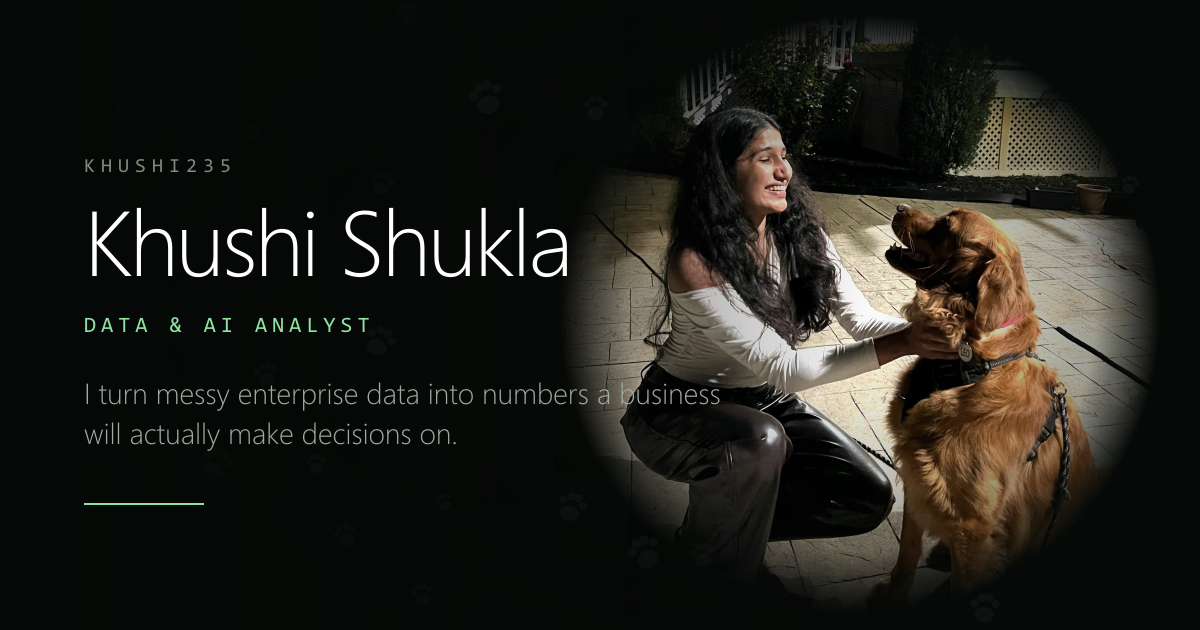
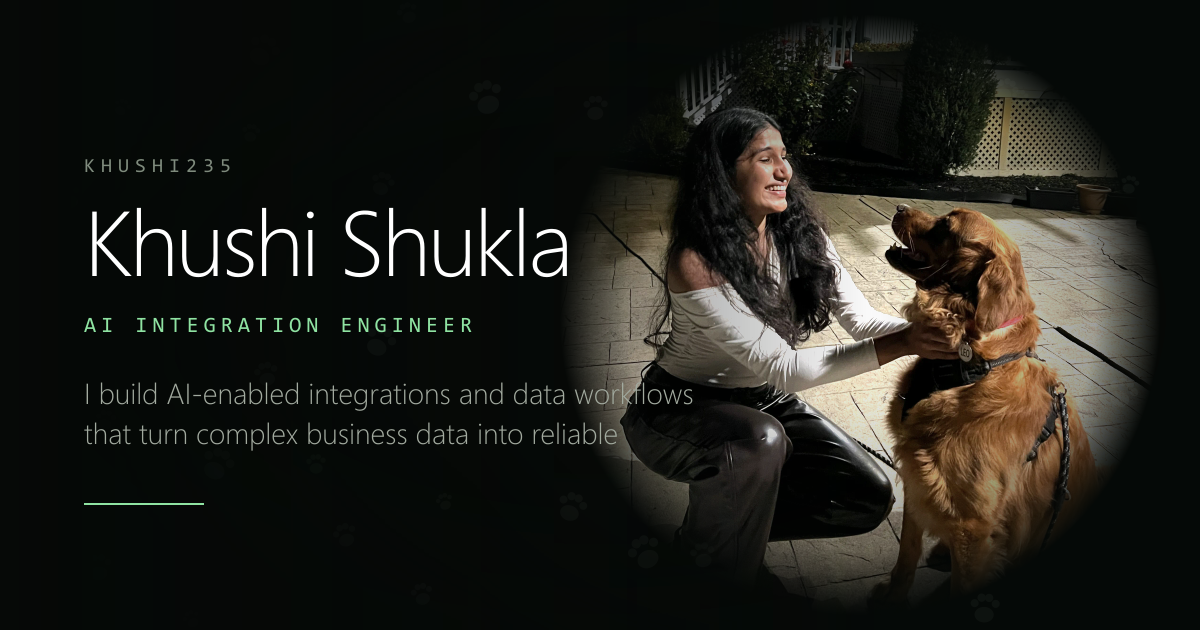
Feature both resume projects and restore two GitHub project cards

Changed region(s): [[0.0617, 0.6032, 0.5858, 0.7238], [0.0617, 0.4825, 0.4008, 0.5429]]

diff --git a/src/content/projects/diamond-pricing-ai.md b/src/content/projects/diamond-pricing-ai.md
@@ -1,62 +1,79 @@
 ---
-title: Placement Management System
-tagline: Centralized student, company and admin workflows
+title: Diamond Pricing AI
+tagline: Defensible Prices and Real Comparables
 description: >-
-  A full-stack placement platform designed with the Gujarat University
-  Placement Cell to automate student-job matching, applications and placement
-  tracking.
+  A pricing and recommendation engine that reads grading-lab certificates, joins
+  them to live inventory and historical sales, and returns a defensible price
+  range plus the alternatives a customer is likely to accept.
 featured: false
-order: 2
-year: 2024
+order: 3
+year: 2026
 status: shipped
-theme: golden
+theme: slate
 technologies:
-  - React.js
-  - Next.js
-  - Express.js
-  - Node.js
-  - PostgreSQL
-  - REST APIs
+  - Python
+  - SQL
+  - scikit-learn
+  - NLP
+  - FastAPI
+  - Quantile Regression
 problem: >-
-  Fragmented manual processes made it difficult to coordinate students,
-  companies and administrators or maintain timely visibility into placement
-  activity.
+  Diamond pricing was done by hand — read the certificate, check a price list,
+  compare a few stones from memory, quote a number. Every salesperson quoted
+  differently, so margin leaked on some stones and deals were lost on others;
+  certificates arrived as PDFs and free text, costing hours of data entry; and
+  "show me something similar" was a manual search slow enough that customers left.
 approach: >-
-  Worked directly with the Gujarat University Placement Cell to gather
-  requirements and design a three-sided platform that centralizes matching,
-  applications, tracking, APIs, workflows and reporting.
+  Parse the certificate with rule-based NLP, build one clean record per stone in
+  SQL by joining certificate data to inventory and sold prices, then predict price
+  per carat with gradient boosting and a quantile model that returns a low/high
+  band rather than a single number. A similarity recommender surfaces the closest
+  available alternatives, and both are exposed over a FastAPI service the CRM
+  calls directly.
 architecture:
-  - Student workflows for profiles, job discovery and applications.
-  - Company workflows for opportunities and candidate activity.
-  - Admin workflows for placement coordination and tracking.
-  - React.js and Next.js application interfaces for the three user groups.
-  - Node.js and Express.js services backed by PostgreSQL and REST APIs.
+  - A lightweight NLP parser for carat, colour, clarity, cut, fluorescence, measurements and report number.
+  - A versioned SQL feature view joining certificates, inventory and historical sales.
+  - Gradient boosting for price per carat, with a quantile model producing the 10th and 90th percentile.
+  - A similarity recommender across the 4Cs, weighted by what actually drives price.
+  - FastAPI endpoints for /price and /recommend, consumed by the CRM and the internal sales tool.
+  - A low-confidence flag that routes rare fancy shapes to a human instead of guessing.
 decisions:
-  - title: One platform for three user groups
+  - title: A range, not a point estimate
     detail: >-
-      Student, company and admin workflows share one system so placement
-      activity is easier to coordinate and track.
-  - title: Centralized APIs and reporting
+      Quantile regression gives a band. Sales teams negotiate with a band; they do
+      not trust a single decimal number they cannot interrogate.
+  - title: Gradient boosting over deep learning
     detail: >-
-      Shared APIs, workflows and reports replace fragmented manual processes and
-      give the placement team faster visibility into hiring activity.
+      The data is tabular and tens of thousands of rows. Boosted trees win on this
+      shape of data, train in seconds, and give feature importances a sales
+      director can read.
+  - title: Rule-based NLP before an LLM
+    detail: >-
+      Certificates are semi-structured, so regex plus a vocabulary of grading terms
+      is faster, free and auditable. An LLM fallback only runs on the certificates
+      the parser cannot handle.
+  - title: SQL as the single source of truth
+    detail: >-
+      Feature logic lives in a versioned SQL view, so training and serving use
+      exactly the same definitions. No training/serving skew.
 outcomes:
-  - value: 75%
-    label: Faster hiring speed
-  - value: 30%
-    label: Reduction in manual processing
-  - value: 3-sided
-    label: Student, company and admin system
-  - value: Centralized
-    label: Placement tracking and reporting
-links: {}
+  - value: ~8%
+    label: Mean absolute percentage error (R² 0.93)
+  - value: 94%
+    label: Certificate fields captured automatically
+  - value: < 1s
+    label: Time to quote a stone, down from minutes
+  - value: Full
+    label: Inventory coverage, not just popular shapes
+links:
+  github: https://github.com/khushi235/diamond-pricing-ai
 ---
 
-The Placement Management System was designed with the Gujarat University
-Placement Cell around the real workflows of students, companies and
-administrators. It replaces disconnected manual steps with a central platform
-for matching, applications and placement tracking.
+The model is strong on round and princess cuts where there is volume, and weaker on rare
+fancy shapes. Rather than hide that, the API returns a low-confidence flag and the stone
+is routed to a human. A pricing system that is confidently wrong on the expensive tail is
+worse than no pricing system at all.
 
-The project demonstrates full-stack product work across React.js, Next.js,
-Node.js, Express.js, PostgreSQL and REST APIs, with reporting that gives the
-placement team faster visibility into hiring activity.
+The part I would defend hardest is the price *range*. A point estimate looks more
+impressive in a demo and is almost useless in a negotiation — the band is what made the
+sales team adopt it.

diff --git a/src/content/projects/enterprise-data-quality-automation.md b/src/content/projects/enterprise-data-quality-automation.md
@@ -1,0 +1,83 @@
+---
+title: Enterprise Data Quality Automation
+tagline: Config-Driven Data Quality Framework
+description: >-
+  A reusable framework that profiles a dataset, applies business rules, flags
+  anomalies, deduplicates and standardises records, publishes a quality
+  scorecard — and blocks the pipeline when something is badly wrong.
+featured: false
+order: 4
+year: 2026
+status: active
+theme: sand
+technologies:
+  - Python
+  - SQL
+  - YAML
+  - REST APIs
+  - Generative AI
+  - GitHub Actions
+  - Fuzzy Matching
+problem: >-
+  Every client environment told the same story: millions of records, dozens of
+  sources, and nobody able to say whether the data was fit to use. The same
+  customer existed four times with different spellings, one country column held
+  four spellings of "United States", and every new engagement began by writing the
+  same cleaning script from scratch.
+approach: >-
+  Move the rules out of the code and into YAML, so onboarding a client means
+  writing a config file rather than a codebase. Seven stages run in order —
+  profile, validate, standardise, deduplicate, detect anomalies, score, act — and
+  the run is gated: clean data is published, rejects are quarantined with the rule
+  that rejected them, and a critical failure stops the pipeline instead of
+  poisoning the warehouse.
+architecture:
+  - Connectors for SQL sources, REST APIs and file exports behind one interface.
+  - Automated profiling — row counts, null rates, cardinality, type inference, pattern detection and outliers.
+  - A YAML rules engine covering required, unique, regex, range, allowed-value and cross-field checks.
+  - Standardisation of names, addresses, phones, emails, countries and dates into one canonical form.
+  - Blocking plus fuzzy matching to resolve the same entity written five different ways.
+  - Anomaly detection on statistical outliers and distribution drift against the previous load.
+  - A 0–100 score per quality dimension, persisted to SQL so the trend is visible over time.
+decisions:
+  - title: Configuration over code
+    detail: >-
+      The rules engine reads YAML. A new client is a config file, not a new
+      codebase — that is the single thing that made this reusable instead of
+      another one-off script.
+  - title: Quarantine, never delete
+    detail: >-
+      Failed rows go to a quarantine table alongside the rule that rejected them.
+      Silently dropping records is how you lose a client's revenue data.
+  - title: AI only where rules genuinely fall short
+    detail: >-
+      An LLM proposes column mappings for new client files and extracts from free
+      text that regex cannot handle reliably, with a strict JSON schema and a human
+      approval on the mapping. Everything else stays deterministic, because rules
+      are faster, cheaper, testable and auditable.
+  - title: The quality gate is a gate
+    detail: >-
+      Below the configured threshold the run fails and alerts rather than
+      publishing. A scorecard nobody acts on is just a nicer-looking problem.
+outcomes:
+  - value: 40%
+    label: Reduction in analytical errors
+  - value: 3×
+    label: Faster decision-making
+  - value: 99%
+    label: Email deliverability after validation
+  - value: Days → YAML
+    label: New client onboarding
+links:
+  github: https://github.com/khushi235/enterprise-data-quality-automation
+---
+
+This is the project I would point at first when the question is about reliability rather
+than a single answer. Before it, data quality was an opinion held separately by every
+analyst on every engagement. After it, it is a number with a history, and a run either
+passes or it does not.
+
+The part that took longest was not the matching or the anomaly detection — it was
+deciding what the framework should *refuse* to do. Auto-correcting a value is tempting
+and almost always wrong; a quarantine table with a reason attached is slower to read and
+far easier to defend.

diff --git a/src/content/projects/placement-management-system.md b/src/content/projects/placement-management-system.md
@@ -1,0 +1,62 @@
+---
+title: Placement Management System
+tagline: Centralized student, company and admin workflows
+description: >-
+  A full-stack placement platform designed with the Gujarat University
+  Placement Cell to automate student-job matching, applications and placement
+  tracking.
+featured: true
+order: 2
+year: 2024
+status: shipped
+theme: golden
+technologies:
+  - React.js
+  - Next.js
+  - Express.js
+  - Node.js
+  - PostgreSQL
+  - REST APIs
+problem: >-
+  Fragmented manual processes made it difficult to coordinate students,
+  companies and administrators or maintain timely visibility into placement
+  activity.
+approach: >-
+  Worked directly with the Gujarat University Placement Cell to gather
+  requirements and design a three-sided platform that centralizes matching,
+  applications, tracking, APIs, workflows and reporting.
+architecture:
+  - Student workflows for profiles, job discovery and applications.
+  - Company workflows for opportunities and candidate activity.
+  - Admin workflows for placement coordination and tracking.
+  - React.js and Next.js application interfaces for the three user groups.
+  - Node.js and Express.js services backed by PostgreSQL and REST APIs.
+decisions:
+  - title: One platform for three user groups
+    detail: >-
+      Student, company and admin workflows share one system so placement
+      activity is easier to coordinate and track.
+  - title: Centralized APIs and reporting
+    detail: >-
+      Shared APIs, workflows and reports replace fragmented manual processes and
+      give the placement team faster visibility into hiring activity.
+outcomes:
+  - value: 75%
+    label: Faster hiring speed
+  - value: 30%
+    label: Reduction in manual processing
+  - value: 3-sided
+    label: Student, company and admin system
+  - value: Centralized
+    label: Placement tracking and reporting
+links: {}
+---
+
+The Placement Management System was designed with the Gujarat University
+Placement Cell around the real workflows of students, companies and
+administrators. It replaces disconnected manual steps with a central platform
+for matching, applications and placement tracking.
+
+The project demonstrates full-stack product work across React.js, Next.js,
+Node.js, Express.js, PostgreSQL and REST APIs, with reporting that gives the
+placement team faster visibility into hiring activity.
